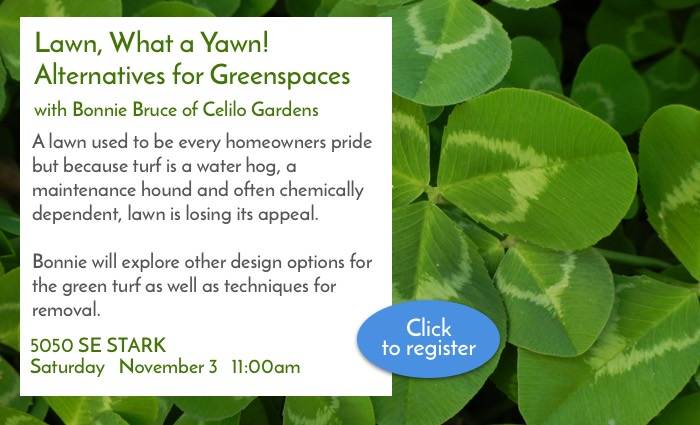
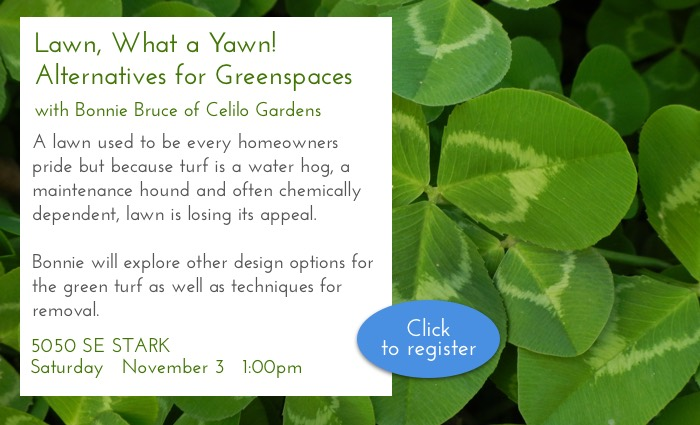
news

diff --git a/current-news.html b/current-news.html
@@ -117,7 +117,7 @@
 
 <div style="font-family:'Josefin Sans',Arial, Helvetica, sans-serif;font-size:20px;font-weight: 300;color:#555555;line-height:1.5;padding:0 10px;text-align: left; margin: 15px 0;">Is there any food more perfect for traveling than an apple? You can take it anywhere and without any fuss have a fresh treat. Apples travel so well we brought them across the country with us when we settled the West and planted them along the way. Most of the varieties we planted back then were for making cider and lost over the years as we developed newer varieties for fresh eating and cooking. Not long ago you typically could only find about half a dozen different varieties in most grocery stores, but now that is beginning to change as growers bring back some of the older varieties and consumers discover the amazing variety of different apples. </div>
 
-<div style="font-family:'Josefin Sans',Arial, Helvetica, sans-serif;font-size:20px;font-weight: 300;color:#555555;line-height:1.5;padding:0 10px;text-align: left; margin: 15px 0;">In October, Portland Nursery is the center of this gourmet lesson with its <a target="_blank" href="https://portlandnursery.com/events/appletasting/"><strong>annual Apple Tasting</strong></a>. With over 60 varieties of apple and pears to sample, most for sale as well, it will give you an opportunity to discover the differences between them. There are antique varieties like Spitzenberg and Cox’s Orange Pippin, newer varieties like Honeycrisp and even some of our own crosses like Swiss Gourmet and Orondo Rose. But the fun doesn’t stop there - There is music, children’s activities, fresh pressed cider, our famous strudel, various vendors to tempt you and a hard cider tasting as well. Always the second and third weekends of October this year will be the 31st annual Gourmet Apple Tasting.</div>
+<div style="font-family:'Josefin Sans',Arial, Helvetica, sans-serif;font-size:20px;font-weight: 300;color:#555555;line-height:1.5;padding:0 10px;text-align: left; margin: 15px 0;">In October, Portland Nursery is the center of this gourmet lesson with its <a target="_blank" href="https://portlandnursery.com/events/appletasting/"><strong>annual Apple Tasting</strong></a>. With over 60 varieties of apple to sample, most for sale as well, it will give you an opportunity to discover the differences between them. There are antique varieties like Spitzenberg and Cox’s Orange Pippin, newer varieties like Honeycrisp and even some of our own crosses like Swiss Gourmet and Orondo Rose. But the fun doesn’t stop there - There is music, children’s activities, fresh pressed cider, our famous strudel, various vendors to tempt you and a hard cider tasting as well. Always the second and third weekends of October this year will be the 31st annual Gourmet Apple Tasting.</div>
 
  <div style="font-family:'Josefin Sans',Arial, Helvetica, sans-serif;font-size:20px;font-weight: 300;color:#555555;line-height:1.5;padding:0 10px;text-align: left; margin: 15px 0;">Apples are the most widely grown fruit tree and especially suited to our area. Most apple trees are grafted and their rootstock will determine how large that particular tree will grow. Many dwarf rootstocks are available for the home garden. Apple trees like fertile well drained soil, full sun and are best planted in the fall or early spring. When you choose your tree remember that most varieties need to be pollinated by another to fruit. If you only have room for one tree, look for one that has multiple varieties grafted onto the same tree. Apple trees also require regular pruning to keep them in shape and healthy. This is best done in late winter to early spring while the tree is dormant. </div>
 
@@ -151,7 +151,9 @@
                                                     </div>
                                                 </td>
                                             </tr><!-- End Divider Row -->
-                                            <!-- ==================== Divider Row ===================== -->
+
+
+                                           <!-- ==================== Divider Row ===================== -->
 
                                             <tr>
                                                 <td>
@@ -160,9 +162,7 @@
                                                             <tbody>
                                                                 <tr>
                                                                     <td>
-                                                                        <div class="noWrapImageWrapper" style="text-align: center; margin: 0; padding: 10px 20px;">
-                                                                           <img alt="" src="https://portlandnursery.com/newsletter/images/appletasting/elderday2018.jpg" style="margin: 0px;display: inline;">
-                                                                        </div>
+                                                                        <div class="noWrapImageWrapper" style="text-align: center; margin: 0; padding: 10px 20px;"><img alt="" src="https://portlandnursery.com/newsletter/images/masonbeeharvesteventa.jpg" style="margin: 0px;display: inline;"></div>
                                                                     </td>
                                                                 </tr>
                                                             </tbody>
@@ -188,7 +188,6 @@
                                                     </div>
                                                 </td>
                                             </tr><!-- End Divider Row -->
-
                                             <!-- ==================== Divider Row ===================== -->
 
                                             <tr>
@@ -198,7 +197,9 @@
                                                             <tbody>
                                                                 <tr>
                                                                     <td>
-                                                                        <div class="noWrapImageWrapper" style="text-align: center; margin: 0; padding: 10px 20px;"><img alt="" src="https://portlandnursery.com/newsletter/images/masonbeeharvestevent.jpg" style="margin: 0px;display: inline;"></div>
+                                                                        <div class="noWrapImageWrapper" style="text-align: center; margin: 0; padding: 10px 20px;">
+                                                                           <img alt="" src="https://portlandnursery.com/newsletter/images/appletasting/elderday2018.jpg" style="margin: 0px;display: inline;">
+                                                                        </div>
                                                                     </td>
                                                                 </tr>
                                                             </tbody>
@@ -438,7 +439,7 @@
 
                 <div style="font-family:'Josefin Sans',Arial, Helvetica, sans-serif;font-size:20px;font-weight: 300;color:#555555;line-height:130%;padding: 0;margin-bottom: 15px;padding: 0 20px;">
                                                 <strong>Lawn, What a Yawn! Alternatives for Greenspaces</strong><br>
-                                                5050 SE STARK &bull; Saturday &bull; November 3 &bull; 11:00am<br>
+                                                5050 SE STARK &bull; Saturday &bull; November 3 &bull; 1:00pm<br>
                 <a href="https://portlandnursery.wufoo.com/forms/zuzmfz91klrhv2/" onclick="window.open(this.href,  null, 'height=483, =680, toolbar=0, location=0, status=1, scrollbars=1, resizable=1'); return false">Click here to register for this class.</a></div>
 
                 <div style="font-family:'Josefin Sans',Arial, Helvetica, sans-serif;font-size:20px;font-weight: 300;color:#555555;line-height:130%;padding: 0;margin-bottom: 15px;padding: 0 20px;">
@@ -466,6 +467,21 @@
                                                 <strong>Plants for Lovely Winter Gardens</strong><br>
                                                 5050 SE STARK &bull; Saturday &bull; November 11 &bull; 11:00am<br>
                 <a href="https://portlandnursery.wufoo.com/forms/z1eagttx1loyvch/" onclick="window.open(this.href,  null, 'height=483, =680, toolbar=0, location=0, status=1, scrollbars=1, resizable=1'); return false">Click here to register for this class.</a></div>
+
+                 <div style="font-family:'Josefin Sans',Arial, Helvetica, sans-serif;font-size:20px;font-weight: 300;color:#555555;line-height:130%;padding: 0;margin-bottom: 15px;padding: 0 20px;">
+                                                <strong>Aromatic Herbs for Winter Wellness</strong><br>
+                                                9000 SE DIVISION &bull; Saturday &bull; November 17&bull; 11:00am<br>
+	                                                <a href="https://portlandnursery.wufoo.com/forms/zq2bs5s0a1aeit/" onclick="window.open(this.href,  null, 'height=483, =680, toolbar=0, location=0, status=1, scrollbars=1, resizable=1'); return false">Click here to register for this class.</a></div>
+
+                 <div style="font-family:'Josefin Sans',Arial, Helvetica, sans-serif;font-size:20px;font-weight: 300;color:#555555;line-height:130%;padding: 0;margin-bottom: 15px;padding: 0 20px;">
+                                                <strong>Bonsai- Winter Care for Hardy Trees</strong><br>
+                                                9000 SE DIVISION &bull; Saturday &bull; November 17 &bull; 1:00pm<br>
+	                                                <a href="https://portlandnursery.wufoo.com/forms/z1xonict1687k29/" onclick="window.open(this.href,  null, 'height=483, =680, toolbar=0, location=0, status=1, scrollbars=1, resizable=1'); return false">Click here to register for this class.</a></div>
+
+	             <div style="font-family:'Josefin Sans',Arial, Helvetica, sans-serif;font-size:20px;font-weight: 300;color:#555555;line-height:130%;padding: 0;margin-bottom: 15px;padding: 0 20px;">
+                                                <strong>Wreath Making Workshop</strong><br>
+                                                9000 SE DIVISION &bull; Sunday &bull; November 25&bull; 10:00am<br>
+	                                                <a href="https://portlandnursery.wufoo.com/forms/z1c40eu16m0l0y/" onclick="window.open(this.href,  null, 'height=483, =680, toolbar=0, location=0, status=1, scrollbars=1, resizable=1'); return false">Click here to register for this class.</a></div>
 
                                                                 </td>
                                                             </tr>
